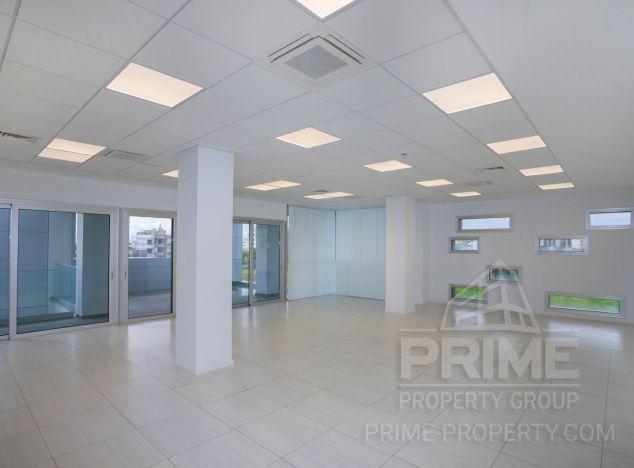
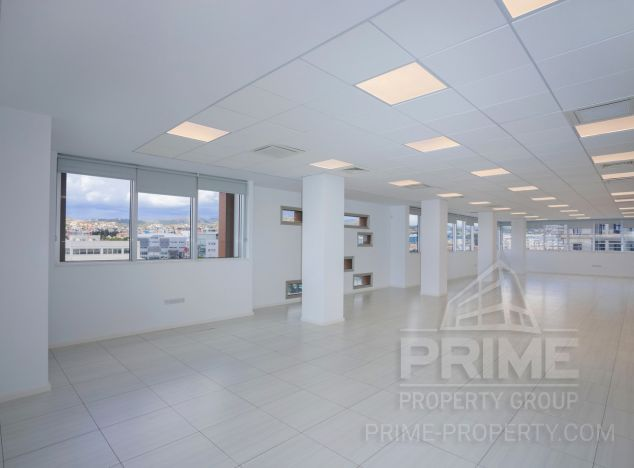
update

diff --git a/_posts/2020-08-02-office-1.md b/_posts/2020-08-02-office-1.md
@@ -2,25 +2,25 @@
 layout: post
 title:  "Office 1"
 image: /images/office2.jpg
-size: "205sqm"
-price: "€ 4.700 + VAT"
+size: "339sqm"
+price: "€ 10.500 + VAT"
 ---
 
 <div class="office-info-grid">
     <div>Office nickname:</div>
-    <div>waywin 1</div>
+    <div>waywin</div>
     <div>Address:</div>
     <div>Agios Athanasios, Limassol</div>
     <div>Google maps location URL:</div>
     <div><a href="https://goo.gl/maps/oBpvZwMNrXsSPTZM7" target="_blank" rel="noopener noreferrer">https://goo.gl/maps/oBpvZwMNrXsSPTZM7</a></div>
     <div>Size in sq m:</div>
-    <div>205</div>
+    <div>339</div>
     <div>Size in sq ft:</div>
     <div>2206</div>
     <div>Floor number:</div>
-    <div>1</div>
+    <div>2</div>
     <div>Rental amount per month:</div>
-    <div>€ 4.700 + VAT</div>
+    <div>€ 10.500 + VAT</div>
     <div>Rental per sq m per month:</div>
     <div>€ 23</div>
     <div>Rental per sq ft per month:</div>
